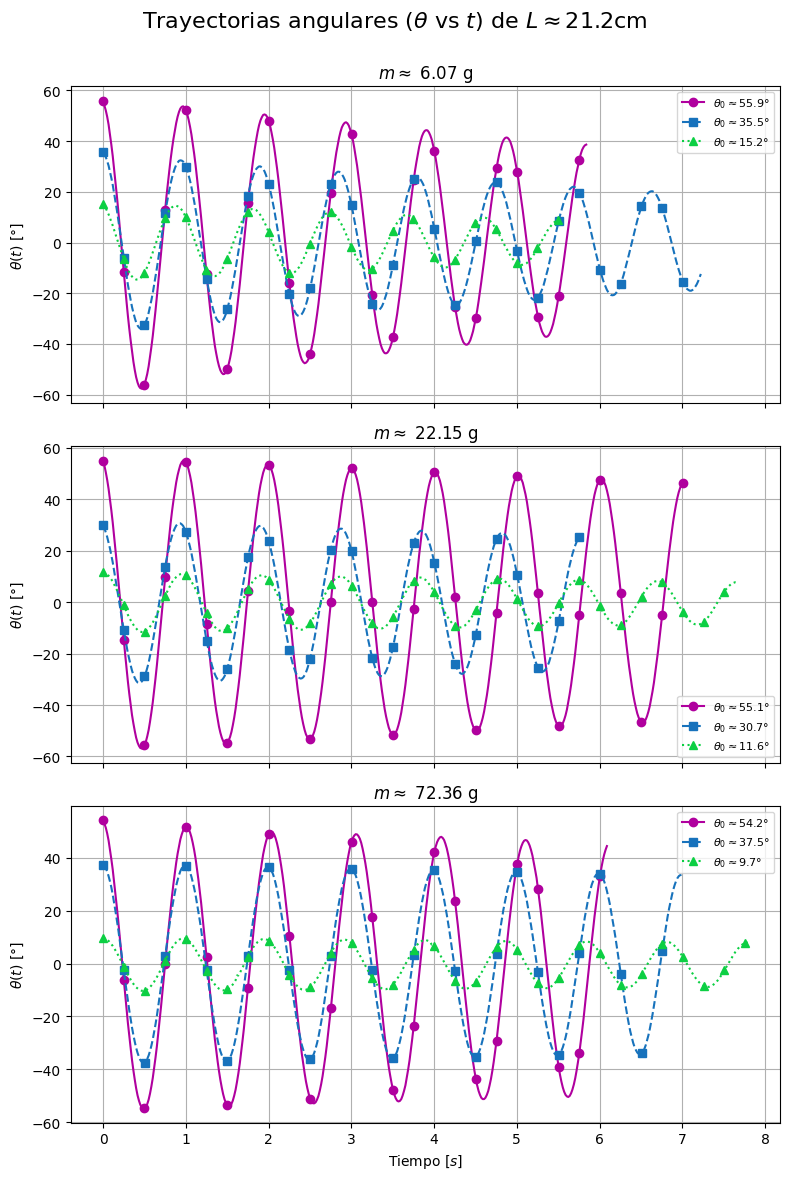
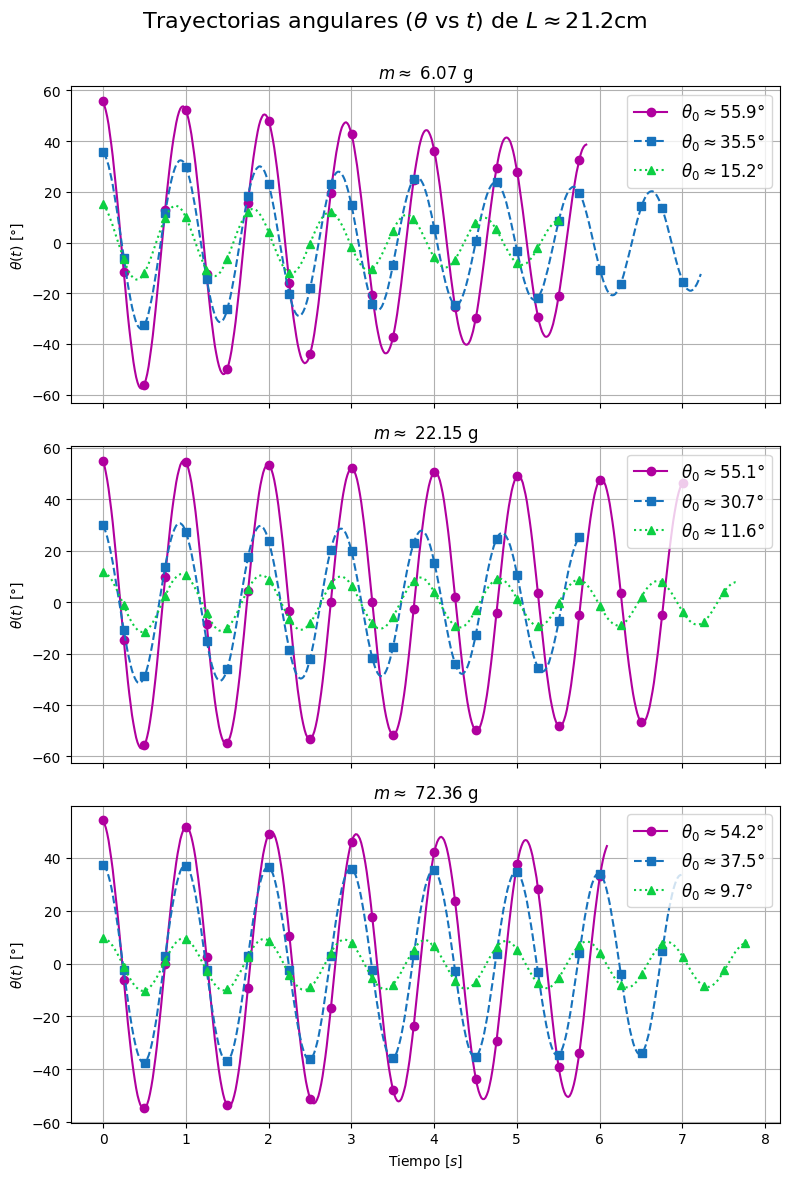
oscilationComparative

diff --git a/Code/graphs.py b/Code/graphs.py
@@ -5,6 +5,7 @@ from calcs import DF, DF2, angularFreq, oscilationFreq, radius
 from scipy.signal import find_peaks
 from scipy.stats import linregress
 from scipy.interpolate import make_interp_spline
+from scipy import constants
 from collections import defaultdict
 import matplotlib.cm as cm
 
@@ -15,7 +16,7 @@ m2 = [df for df in DF if df.m == 22.15]
 m3 = [df for df in DF if df.m == 72.36]
 dfM = [m1,m2,m3]
 
-#### [1] ω vs θ inicial con propagación de errores
+#### [1] (NO USADO) ω vs θ inicial con propagación de errores
 ##### ω en función de θ inicial
 
 def angleVsAngular():
@@ -87,7 +88,7 @@ def angularVsL():
     plt.title(r'$\omega$ vs $L$ con ajuste polinómico')
     plt.grid(True)
     plt.legend(fontsize=15, loc='upper right')
-    plt.savefig("../Graphs/wVsL2.png", bbox_inches='tight')
+    plt.savefig("../Graphs/wVsL.png", bbox_inches='tight')
 
 ##### [3] Variación de ω con masas 
 ##### L, θ constantes: m1, m2, m3 
@@ -130,7 +131,7 @@ def angularVsM():
     plt.savefig("../Graphs/wVsM.png", bbox_inches='tight')
 
 
-##### [3] Todas las trayectorias
+##### [4] Todas las trayectorias
 ##### θ(t)
 
 def trajectoriesGrid():
@@ -161,7 +162,7 @@ def trajectoriesGrid():
         ax.set_ylabel(r"$\theta(t)$ [$°$]")
         if i == 2:
             ax.set_xlabel(r"Tiempo [$s$]")
-        ax.legend(fontsize=8)
+        ax.legend(fontsize=12)
 
     plt.tight_layout(rect=[0, 0, 1, 0.98])
     plt.savefig("../Graphs/TrajectoriesGridLargos.png", bbox_inches='tight')
@@ -185,13 +186,13 @@ def trajectoriesGrid():
         ax.set_ylabel(r"$\theta(t)$ [$°$]")
         if i == 2:
             ax.set_xlabel(r"Tiempo [$s$]")
-        ax.legend(fontsize=8)
+        ax.legend(fontsize=12)
 
     plt.tight_layout(rect=[0, 0, 1, 0.98])
     plt.savefig("../Graphs/TrajectoriesGridCortos.png", bbox_inches='tight')
 
 
-###### [3] ω 
+###### (NO USADO) [5] ω en función de L y M 
 ###### L vs ω y m vs ω
 
 def angularVsMassLarge():
@@ -218,7 +219,7 @@ def angularVsMassLarge():
     plt.tight_layout()
     plt.savefig("../Graphs/OmegaVsMasaYLongitud.png")
 
-###### [4] Máximos y ajuste lineal
+###### [6] Máximos con ajuste lineal
 ###### θ(t)
 
 def gridMaxLinealRegression():
@@ -265,7 +266,7 @@ def gridMaxLinealRegression():
         ax.set_ylabel(r'Ángulo $\theta$ [°]')
         if i == 2:
             ax.set_xlabel(r'Tiempo [$s$]')
-        ax.legend(fontsize=7)
+        ax.legend(fontsize=12)
 
     plt.tight_layout(rect=[0, 0, 1, 0.98])
     plt.savefig("../Graphs/MaximosConFitLargos.png", bbox_inches='tight')
@@ -308,8 +309,65 @@ def gridMaxLinealRegression():
         ax.set_ylabel(r'Ángulo $\theta$ [°]')
         if i == 2:
             ax.set_xlabel(r'Tiempo [$s$]')
-        ax.legend(fontsize=7)
+        ax.legend(fontsize=12)
 
     plt.tight_layout(rect=[0, 0, 1, 0.98])
     plt.savefig("../Graphs/MaximosConFitCortos.png", bbox_inches='tight')
-    print(round(np.mean(slopes), 2))
+    print(fr"La pendiente (promedio) del ajuste lineal para pequeñas oscilaciones ($\theta_0 \approx 10º$) es $a = {round(np.mean(slopes), 2)}$")
+
+###### [7] (TERMINAR, DA CUALQ COSA) T vs L
+
+def perdiodVsL():
+    periods = [df.period for df in DF]
+    periodErr = [df.periodError for df in DF]
+    lengths = [radius(df)/100 for df in DF] 
+    lengthsErr = [0.1/100 for _ in range(len(lengths))]
+
+    plt.figure(figsize=(12,8))
+    plt.errorbar(x=periods, y=lengths, xerr=periodErr, yerr=lengthsErr, fmt='o', markersize=10, color='grey', markeredgecolor='black', ecolor="#000000", elinewidth=1, capsize=4, barsabove=False)
+
+    coef = np.polyfit(periods, lengths, 1)
+    a, b = coef
+    T_fit = np.linspace(min(periods), max(periods), 100)
+    L_fit = a * T_fit + b
+    plt.plot(T_fit, L_fit, 'r--', label=fr'Ajuste lineal: $L = {a:.2f}T + {b:.2f}$')
+
+    plt.title(r'$T$ vs $L$')
+    plt.grid()
+    plt.xlabel(r'Período de oscilación $T$ [s]')
+    plt.ylabel(r'Longitud del péndulo $L$ [m]')
+    plt.tight_layout()
+
+    print(a)
+
+    plt.show()
+
+###### [8] θ(t) θ chico vs θ(t) teórico
+
+def oscilationComparative(dfIndex: int):
+    ''' Teórico -> θ(t) = θ_0 cos ( sqrt(g/l) * t)'''
+    df = DF[dfIndex] # m3, L1
+    x = df['t']
+    l = round(np.mean(df['r']), 2)
+
+    y1 = [np.deg2rad(theta)+0.025 for theta in df['θ']] # + correción del ángulo
+    theta0rad = max(y1)
+    theta0deg = np.rad2deg(theta0rad)
+    
+    y2 = theta0rad* np.cos( np.sqrt( constants.g / ((l-5.8)/100) ) * x) # l a metros y ajuste del error 
+    # y2 = theta0rad* np.cos( df.w * x) # l a metros y ajuste del error 
+
+    plt.figure(figsize=(12,8))
+
+    plt.plot(x, y1, '-', label=rf'Trayectoria Péndulo Físico', color="#0380fc")
+    plt.plot(x, y2, '--', label=rf'Trayectoria Péndulo Teórico', color="#ff066a")
+    
+    plt.grid()
+    plt.xlabel('Tiempo [s]')
+    plt.ylabel(r'$\theta(t)$ [rad]')
+
+    plt.title(rf"$\theta(t)$ Teórico (Armónico) vs $\theta(t)$ Real ($\theta_0 \approx {round(theta0rad, 2)}$rad, $m \approx {df.m}g, L \approx {round(l-5.8, 2)}cm$)", fontsize=16)
+    
+    plt.legend(fontsize=14, loc='upper right')
+    plt.tight_layout()
+    plt.savefig(f'../Graphs/comparativaPequeñasOsc(df[{dfIndex}]).png')

diff --git a/Code/main.py b/Code/main.py
@@ -1,5 +1,4 @@
-from graphs import angleVsAngular, angularVsL, trajectoriesGrid, gridMaxLinealRegression, angularVsMassLarge, angularVsM
+from graphs import angleVsAngular, angularVsL, trajectoriesGrid, gridMaxLinealRegression, angularVsMassLarge, angularVsM, perdiodVsL, oscilationComparative
 
 if __name__ == '__main__':
-    angularVsM()
-    angularVsL()
+    oscilationComparative(8)
